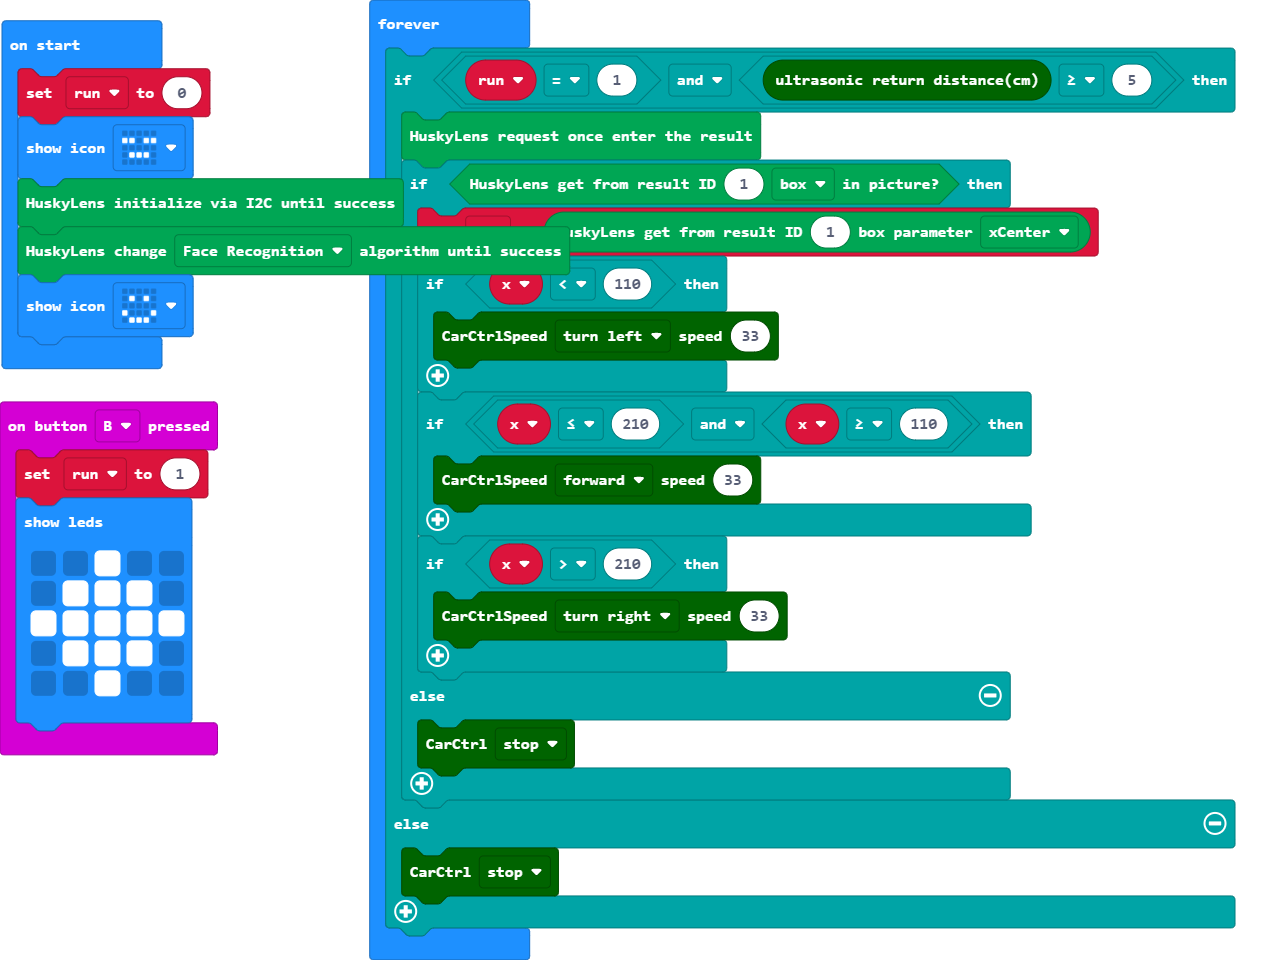
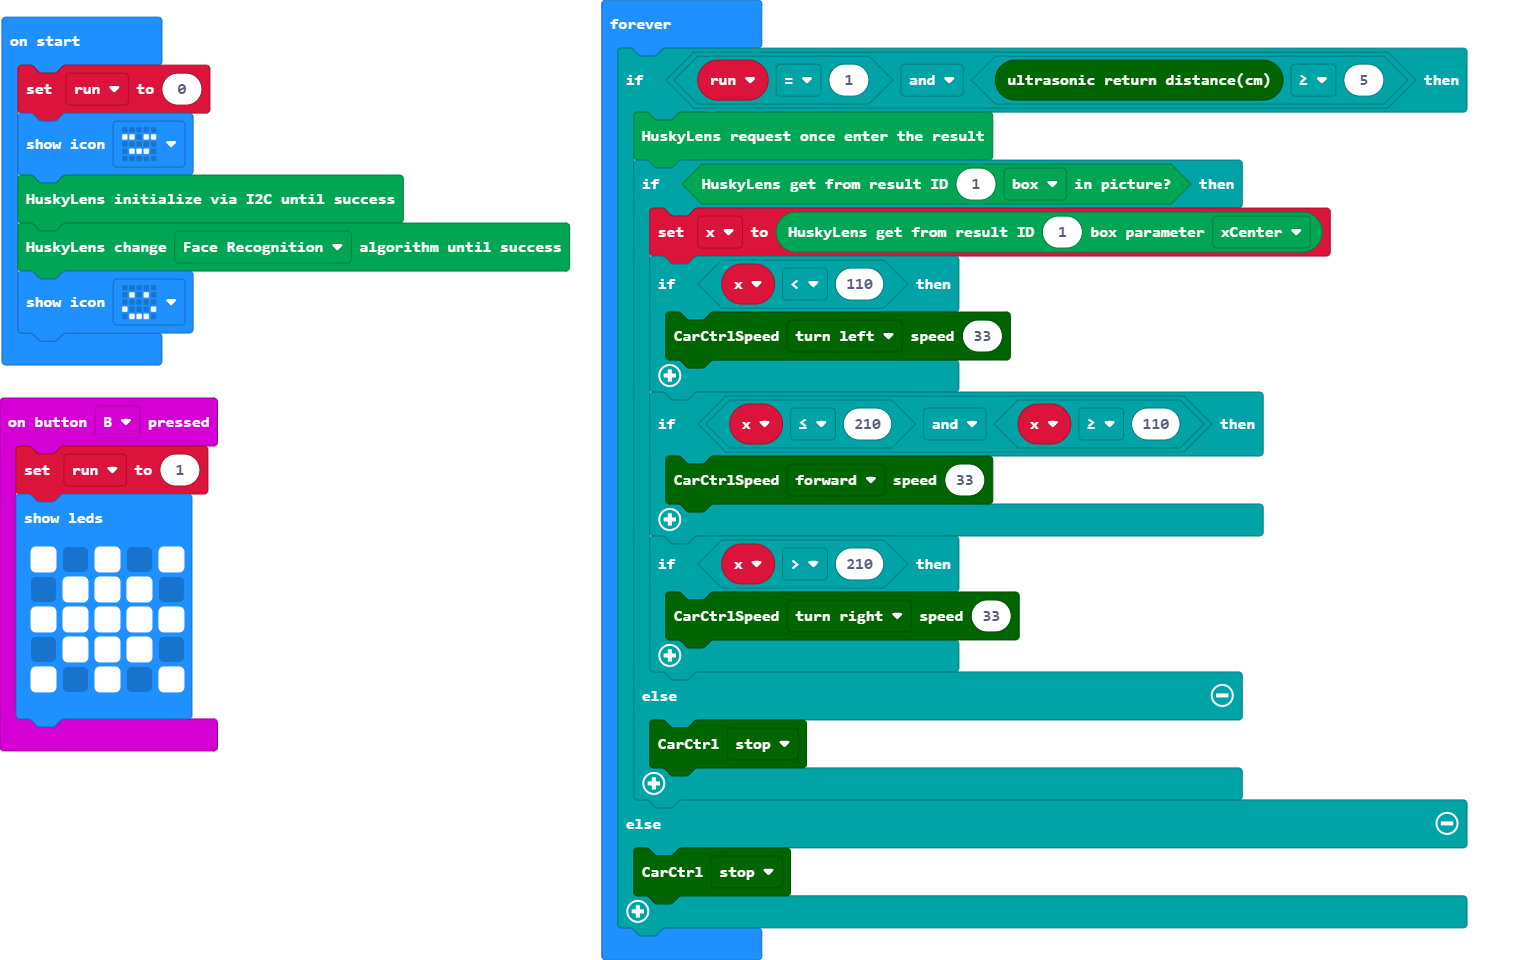
Update main.blocks, main.ts

diff --git a/main.ts b/main.ts
@@ -1,11 +1,11 @@
 input.onButtonPressed(Button.B, function () {
     run = 1
     basic.showLeds(`
-        . . # . .
+        # . # . #
         . # # # .
         # # # # #
         . # # # .
-        . . # . .
+        # . # . #
         `)
 })
 let x = 0
